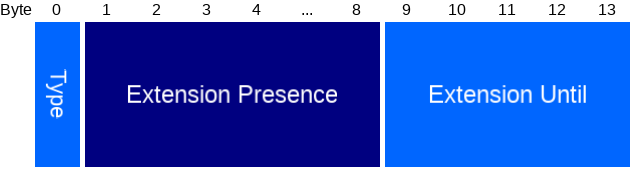
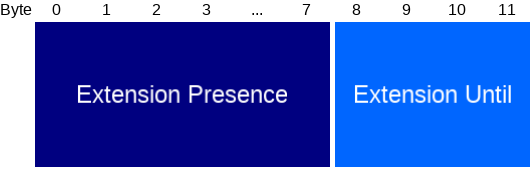
add timeout field to presence description in protocol

diff --git a/docs/BEHAVIOUR.md b/docs/BEHAVIOUR.md
@@ -141,7 +141,7 @@ uint8 | Options | 1 | Reserved for future use
 [Day Of Week Bitmask](#day_of_week_bitmask) | Active Days | 1 | Selects which days of the week this behaviour is active
 [Time Of Day](#time_of_day) | From | 5 | The behaviour is active from, inclusive, this time of day.
 [Time Of Day](#time_of_day) | Until | 5 | The behaviour is active until, exclusive, this time of day.
-[Presence Description](#presence_description) | Presence | 8 | Description of the presence conditions that need to hold for this behaviour to be active. 
+[Presence Description](#presence_description) | Presence | 13 | Description of the presence conditions that need to hold for this behaviour to be active. 
 
 <a name="twilight_behaviour"></a>
 #### Twilight Behaviour
@@ -180,7 +180,6 @@ Type | Name | Length | Description
 
 Type | Name | Length | Description
 --- | --- | --- | ---
-uint8 | Type | 1 | <ol start="0"><li>Presence extension: Pertain until presence condition fails</li><li>Time Limited Presence Extension: also destroy after time-out</li></ol>
 [Presence Description](#presence_description) | Extension Presence | 8 | Description of the presence conditions that the Extension behaviour will use.
 [Time Difference](#time_difference) | Extension Until | 4 | Extend the core behaviour's 'Until' time by the given difference.
 
@@ -233,6 +232,7 @@ Type | Name | Length | Description
 --- | --- | --- | ---
 uint8 | Type | 1 | <ol start="0"><li>Vacuously true condition</li><li>Anyone in any of the rooms</li><li>Noone in any of the rooms</li><li>Anyone anywhere in sphere</li><li>Noone anywhere in sphere</li></ol>
 uint64 | Active Rooms Mask | 8 | Room with id `i` corresponds to bit `i` in this mask.
+uint32_t | Timeout | 4 | 
 
 <a name="firmware_design"></a>
 # Firmware Design Internals
